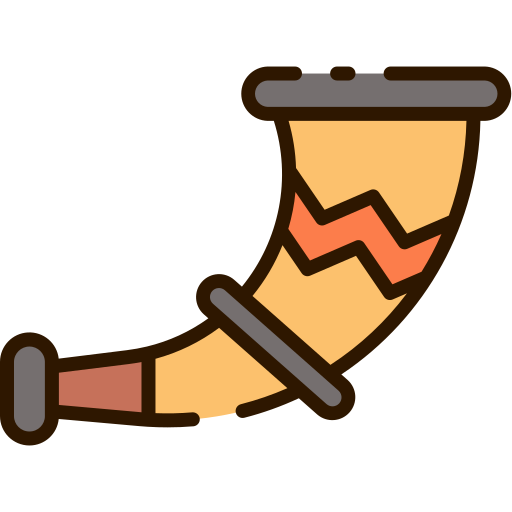
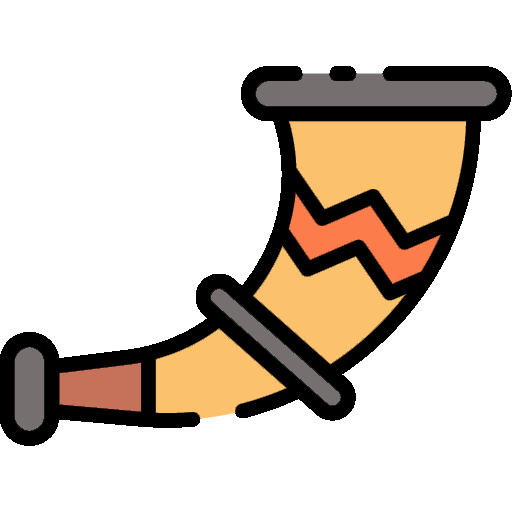
Added Yggdrasil project to list  yggdrasil.html + polish to template and other project pages

Changed region(s): [[0.0, 0.125, 1.0, 0.875], [0.625, 0.125, 0.7188, 0.1562]]

diff --git a/projects/yggdrasil.html b/projects/yggdrasil.html
@@ -1,0 +1,261 @@
+<!DOCTYPE html>
+<html lang="en">
+
+<head>
+  <meta charset="UTF-8">
+  <meta name="viewport" content="width=device-width, initial-scale=1">
+
+  <!-- TITLE OF THE PROJECT -->
+  <title>Yggdrasil - Domotic Server</title>
+  <meta name="description" content="Domotic server based on Home Assistant - Each tool is symbolised by a divinity/myth/god">
+  <meta name="author" content="Géraud Hubin">
+  <meta name="keywords" content="Nuton Cave, personal website, projects, engineering, web development, domotics, DIY, HomeAssistant">
+  <!-- FONTS -->
+  <link rel="preconnect" href="https://fonts.googleapis.com">
+  <link rel="preconnect" href="https://fonts.gstatic.com" crossorigin>
+  <link href="https://fonts.googleapis.com/css2?family=Playfair+Display:wght@700;900&family=Lora:ital@0;1&family=DM+Mono&display=swap" rel="stylesheet">
+  <link href="https://fonts.googleapis.com/css2?family=Permanent+Marker&display=swap" rel="stylesheet">
+  <!-- CSS GLOBAL -->
+  <link rel="stylesheet" href="../style.css">
+  <!-- CSS PROJECTS -->
+  <link rel="stylesheet" href="project.css">
+  <!-- FAVICON -->
+  <link rel="icon" type="image/cave-icon" href="../img/cave.png">
+  
+</head>
+<body>
+<!--
+  INITIALISATION OF DARK MODE
+  Reading localStorage before the page is displayed,
+  which avoids a "flash" of light theme on load.
+-->
+<script>
+    if (localStorage.getItem('theme') === 'dark') {
+      document.body.classList.add('dark');
+    }
+  </script>
+<nav>
+  <div class="nav-left">
+    <a id="index-nav" href="/index.html" class="nav-logo">
+      <span class="nav-highlight"></span> 
+      The Cave
+    </a>
+    <a id="projects-nav" href="/projects.html" class="nav-logo"> 
+      <span class="nav-highlight"></span>
+      Projects 
+    </a>
+    <a id="reading-nav" href="/study.html" class="nav-logo"> 
+      Reading 
+      <span class="nav-highlight"></span>
+    </a> 
+    <a id="listening-nav" href="/listeningRoom.html" class="nav-logo">
+      Listening
+      <span class="nav-highlight"></span>
+    </a>
+    <a id="blog-nav" href="/thoughts.html" class="nav-logo">
+      Thoughts
+      <span class="nav-highlight"></span>
+    </a>
+
+  </div>
+  <ul id= "navigation-links" class="nav-links">
+    <li><a href="/about.html">About the Nuton</a></li>
+    <li><a href="https://github.com/ghubin" target="_blank" rel="noopener noreferrer">Github</a></li>
+    <li>
+      <!--
+        BOUTON DARK MODE
+        aria-label = texte pour les lecteurs d'écran (accessibilité)
+        L'icône changera via JavaScript selon le thème actif
+      -->
+      <button id="dark-toggle" aria-label="Basculer le mode nuit">🌙</button>
+    </li>
+  </ul>
+</nav>
+
+<main class="project">
+  <article>
+
+    <!-- ========== HEADER ========== -->
+    <header>
+      <h1 class="project_title">Yggdrasil</h1>
+      <p class="project_summary">
+        Domotics server using Home Assistant OS on a Raspberry Pi 5, each module is represented by a divinity/myth and all are linked by the tree Yggdrasil.
+      </p>
+
+      <!-- KEY INFO -->
+      <dl class="project_meta">
+        <dt>Status</dt>
+        <dd>In Progress</dd>
+        <dt>Start Date</dt>
+        <dd>September 2026</dd>
+        <dt>Tools</dt>
+        <dd>Raspberry Pi 5, Home Assistant OS, GitHub, STIB API</dd>
+      </dl>
+
+      <!-- Tags : same words as for the projects.html filter -->
+      <ul class="skills-list">
+        <li>personal project</li>
+        <li>domotics</li>
+        <li>electronics</li>
+      </ul>
+    </header>
+
+    <!-- ========== COVER IMAGE (optional, remove block otherwise) ========== -->
+    <figure class="project_cover">
+      <img src="../img/yggdrasil.png" style="max-width: 60%" alt="Logo Yggdrasil">
+      <figcaption>Yggdrasil linking all sensors and tools</figcaption>
+    </figure>
+
+    <!-- ========== SECTIONS ========== -->
+    <!-- Every section = a <section class="project_section"> with an <h2>.
+          Duplicate, rename, or remove as needed for the project. -->
+
+    <section class="project_section" id="context">
+      <h2>Context</h2>
+      <p>The idea started with the COVID and then was accelerated with the discovery of <a href="https://birdie.design/" target="_blank" rel="noopener noreferrer">Birdie</a> (the CO<sub>2</sub> monitoring station)
+        and reading about the effect of CO<sub>2</sub> concentration on <a href="https://scholar.google.com/scholar?hl=en&as_sdt=0%2C5&q=CO2+level+sleep&btnG=" target="_blank" rel="noopener noreferrer">sleep quality</a>, <a href="https://scholar.google.com/scholar?hl=en&as_sdt=0%2C5&q=co2+level+decision+ability&btnG=&oq=co2+level+decision+ab" target="_blank" rel="noopener noreferrer"> focus and decision-making ability</a>.
+        However, between the price for Birdie and the curiosity to understand and create a device that could tell me when to open the windows to stay alert,
+        I started looking into creating such device and I chose to build it using <a href="https://www.home-assistant.io/" target="_blank" rel="noopener noreferrer">Home Assistant</a> as the backbone. 
+        It was chosen because it is quite easy to add homemade sensors using ESPHome, as well as more ready-made connected objects such as Philips Hue and other smart lights, when I will add new items to the system.             
+      </p>
+    </section>
+
+    <section class="project_section" id="realization">
+      <h2>Realization</h2>
+      <p>The installation of the HomeAssistant OS was very simple using the furnished <a href="https://www.home-assistant.io/installation/raspberrypi/" target="_blank" rel="noopener noreferrer">tutorials</a>, 
+        I used an external SSD flashed using the Raspberry Pi Imager that already includes the OS in its installation folder. 
+        The creation of a the home server was then a question of settings and linking to the wifi and the design of a dashboard using the tools given by HA.
+
+      </p>
+
+      <figure class="project_figure">
+          <img src="../img/projects/Yggdrasil/RPi5.png" style="max-width: 60%" alt="Raspberry Pi 5">
+          <figcaption>Raspberry Pi 5</figcaption>
+      </figure>
+
+        <h3 id="materials">Elements and materials</h3>
+      <p> 
+      The list of the current elements constituting the complete system, which is evolving with time and projects
+      </p>
+    </section>
+
+      <div class="project_table">
+        <table>
+          <thead>
+            <tr><th>Name</th><th>Components</th><th>Role</th><th>Reference</th></tr>
+          </thead>
+          <tbody>
+            <tr><td>Yggdrasil</td><td>Raspberry Pi 5</td><td>Orchestrates and links all devices</td><td><a href="https://www.home-assistant.io/"target="_blank" rel="noopener noreferrer">HA</a> - <a href="https://www.raspberrypi.com/" target="_blank" rel="noopener noreferrer">RPi5</a></td></tr>
+            <tr><td>Stribog</td><td>SCD41 sensor and ESP32C3</td><td>CO<sub>2</sub> sensor, notify me to open windows</td><td> <a href="../projects/stribog.html">Stribog</a></td></tr>
+            <tr><td>Demeter</td><td>Capacitive Soil Moisture and ESP32C3</td><td>Tells me when to water my plant</td><td> <a href="../projects/demeter.html">Demeter</a></td></tr>
+            <tr><td>Mercurius</td><td>64x32 LED Matrix, STIB API and ESP32</td><td>Gives me next arrival of public transportation</td><td><a href="../projects/mercurius.html">Mercurius</a></td></tr>
+            <tr><td> </td><td> </td><td> </td><td> </td></tr>
+          </tbody>
+        </table>
+      </div>
+
+    </section>
+
+    <section class="project_section" id="Learnings">
+      <h2>Learnings</h2>
+      <ul>
+        <li>Home Assistant and YAML</li>
+        <li>GitHub Repositories</li>
+        <li>Electronics: Soldering, sensors and circuit design</li>
+        <li>KiCad: PCB Design</li>
+        <li>API: calls and usage of data</li>
+      </ul>
+    </section>
+
+    <section class="project_section" id="future">
+      <h2>Future</h2>
+      <p>There are a few sensors and automations that I want to add</p>
+      <ul>
+        <li>Finish the battery powering of Stribog</li>
+        <li>Start Demeter project</li>
+        <li>Install the Mercurius project (backend and data gathering are ready)</li>
+      </ul>
+
+    <!-- Evolutions : to complete -->
+    <section class="project_section" id="history">
+      <h2>History</h2>
+      <dl class="project_updates">
+        <dt>October 2026</dt>
+        <dd>Installation of Mercurius inside Yggdrasil, data gathered and ready to be displayed</dd>
+        <dt>October 2026</dt>
+        <dd>Addition of the first sensor to the system - <a href="../projects/stribog.html">Stribog</a></dd>
+        <dt>September 2026</dt>
+        <dd>Start of the project.</dd>
+      </dl>
+    </section>
+
+    <section class="project_section">
+      <h2>Links</h2>
+      <ul class="project_links">
+        <li><a href="https://github.com/ghubin">GitHub Repository</a></li>
+      </ul>
+    </section>
+
+    <!-- ========== RETURN ========== -->
+    <p class="project_back">
+      <a href="../projects.html">Back to projects &#8617</a>
+    </p>
+
+  </article>
+</main>
+  <footer>
+    <p>© 2026 - The Nuton Cave - Built with curiosity (not the rover) and mischievousness</p>
+  </footer>
+
+  <script>
+    const btn = document.getElementById('dark-toggle');
+    // getElementById cherche l'élément avec id="dark-toggle"
+
+    // Fonction qui met à jour l'icône selon le thème actif
+    function updateIcon() {
+      // body.classList.contains('dark') renvoie true ou false
+      btn.textContent = document.body.classList.contains('dark') ? '☀' : '🌙';
+      // Si dark → afficher le soleil (pour repasser au clair)
+      // Sinon → afficher la lune (pour passer au sombre)
+    }
+
+    updateIcon(); // appel immédiat pour afficher la bonne icône au chargement
+
+    btn.addEventListener('click', function () {
+      // addEventListener écoute les clics sur le bouton
+      // À chaque clic, on bascule la classe "dark" sur le <body>
+      document.body.classList.toggle('dark');
+      // toggle = ajoute la classe si absente, la retire si présente
+
+      // On sauvegarde le choix dans localStorage
+      // localStorage = stockage persistant dans le navigateur (survit à la fermeture)
+      localStorage.setItem('theme', document.body.classList.contains('dark') ? 'dark' : 'light');
+
+      updateIcon(); // met à jour l'icône après le changement
+    });
+  </script>
+  
+  <script>
+    window.addEventListener('scroll', () => {
+      const item = document.getElementById('navigation-links');
+      if(!item) return;
+      
+      const currentScroll = window.scrollY;
+      const scrollThreshold = 75;
+
+      if(currentScroll >= scrollThreshold){
+        item.style.opacity = '0';
+        item.style.visibility='none';
+        item.style.pointerEvents = 'none';
+      }
+      else{
+        item.style.opacity = 1-(currentScroll/scrollThreshold);
+        item.style.visibility = 'visible';
+        item.style.pointerEvents = 'auto';
+      }
+    });
+  </script>
+  <dialog class="project_lightbox"><img alt=""></dialog>
+  <script src="project.js" defer></script>  
+</body>
+</html>

diff --git a/projects/_project-template.html b/projects/_project-template.html
@@ -137,6 +137,7 @@
           <tbody>
             <tr><td>Element A</td><td>What it does</td><td>Ref. A</td></tr>
             <tr><td>Element B</td><td>What it does</td><td>Ref. B</td></tr>
+            <tr><td> </td><td> </td><td> </td><td> </td></tr>
           </tbody>
         </table>
       </div>
@@ -164,11 +165,13 @@
         <p>Citation or remark</p>
       </blockquote>
     </section>
-
-    <section class="project_section" id="resultat">
-      <h2>Results</h2>
-      <p>Where the project stands, what works, what has been learned.</p>
-    </section>
+    
+    <section class="project_section" id="future">
+      <h2>Future</h2>
+      <p>There are a few ideas and projects that I want to create and implement in the future.</p>
+      <ul>
+        <li>Implement the visualization of the data and summaries inside <a href="../listeningRoom.html">listeningRoom.html</a></li>
+      </ul>
 
     <!-- Evolutions : to complete -->
     <section class="project_section" id="evolutions">

diff --git a/projects/ogma.html b/projects/ogma.html
@@ -93,7 +93,7 @@
       </dl>
 
       <!-- Tags : same words as for the projects.html filter -->
-      <ul class="project_tags">
+      <ul class="skills-list">
         <li>web-development</li>
         <li>music</li>
       </ul>
@@ -196,7 +196,7 @@
       <h2>Future</h2>
       <p>There are a few ideas and projects that I want to create and implement in the future.</p>
       <ul>
-        <li>Implement the visualization of the data and summaries inside <a href="../listeningRoom.html">listeningRoom.html</a></li>
+        <li>Implement the visualization of the data and summaries inside <a href="../listeningRoom.html">listeningRoom</a></li>
       </ul>
 
     <!-- Evolutions : to complete -->

diff --git a/projects/project.css b/projects/project.css
@@ -168,7 +168,7 @@ body.dark .project {
 }
 
 .project_section h3 {
-  color: 	#f3701e;
+  color: var(--role);
   margin: 1rem 1rem 0.5rem;
   font-size: 1.15rem;
 }
@@ -257,7 +257,6 @@ body.dark .project {
   color: var(--project_muted);
   font-weight: 600;
 }
- 
 /* --- Evolutions : Dates on left --- */
 .project_updates {
   display: grid;
@@ -283,6 +282,7 @@ body.dark .project {
 
 .project a {
   text-underline-offset: 0.2em;
+  color: var(--BIC);
 }
 
 .project a:focus-visible {

diff --git a/projects/nutoncaveproject.html b/projects/nutoncaveproject.html
@@ -93,7 +93,7 @@
 
       <!-- Tags : same words as for the projects.html filter -->
       <ul class="skills-list">
-        <li>web development</li>
+        <li>web-development</li>
         <li>personal project</li>
       </ul>
     </header>
